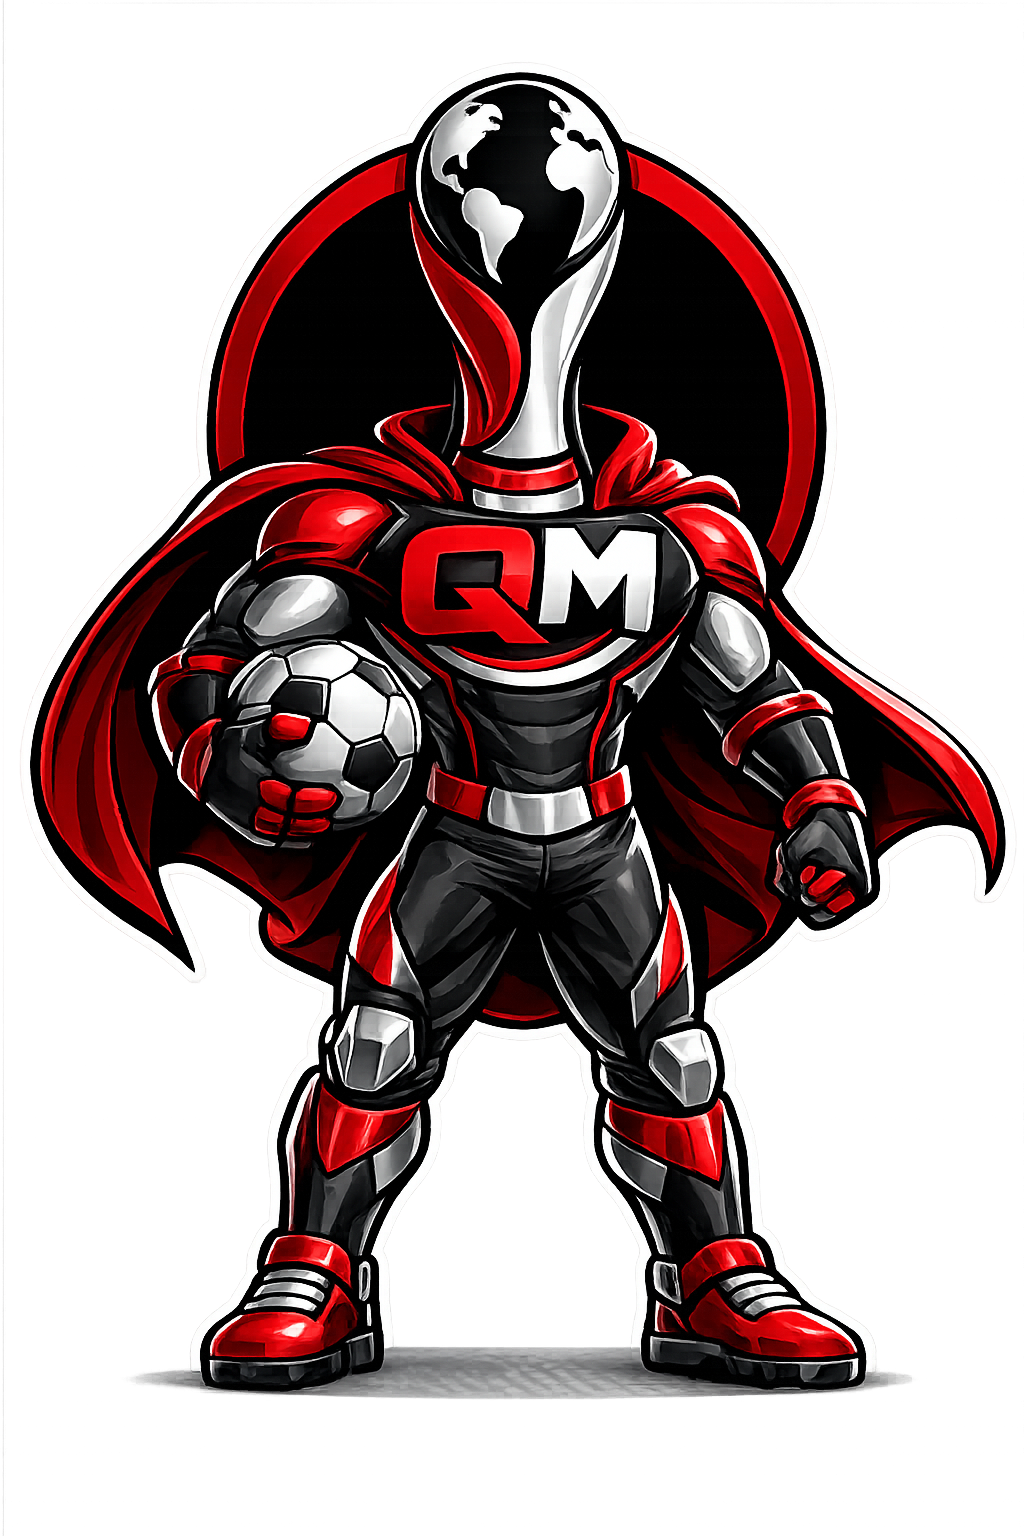
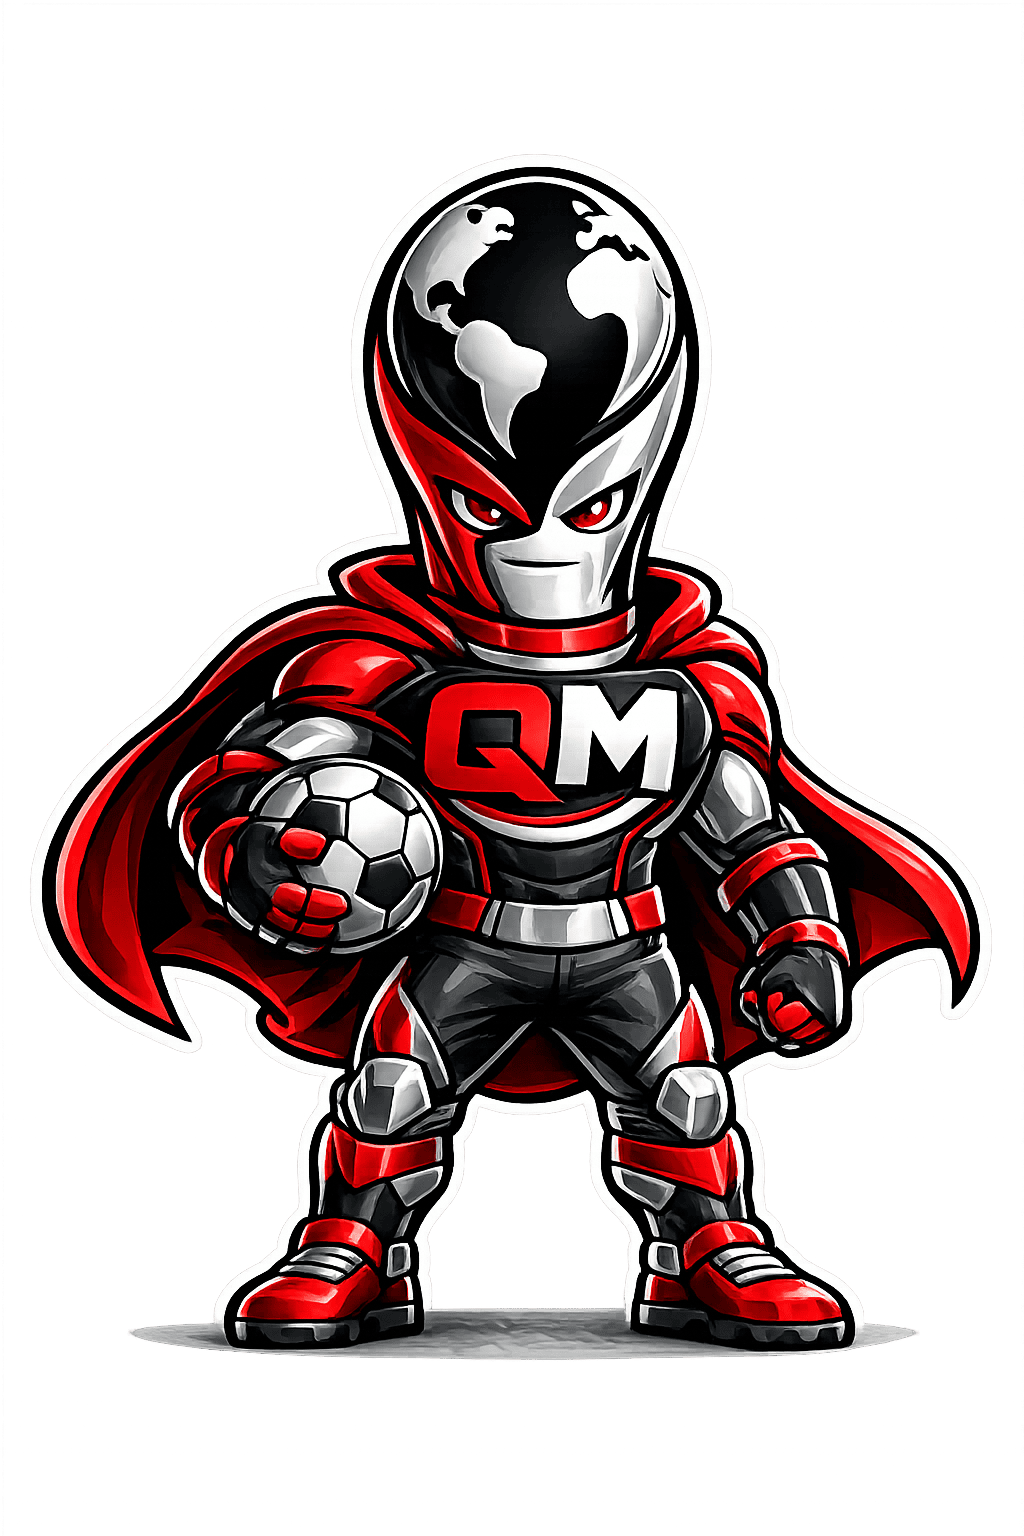
feat(tutorial): mascota mas protagonista + asset 10x mas ligero
Sustituye el PNG de 2.4 MB por una version comprimida de 240 KB
(misma imagen, ahorra 90% en repo y deploy).

Ademas le sube el protagonismo en el card:
- Tamano de 36-44px (size-9/11) a 64-80px (size-16/20).
- Pasa de estar pegada al lado del indicador de paso a ser el
  HEROE del top del card, centrada, con el indicador de paso
  debajo y la X de cerrar absolute en la esquina.
- Anade un halo arena suave detras y drop-shadow ligera para que
  destaque sobre el surface del card sin romper la estetica.

Funciona igual en bottom-sheet movil y en card flotante desktop.

diff --git a/components/tutorial/tutorial-card.tsx b/components/tutorial/tutorial-card.tsx
@@ -178,19 +178,20 @@ export function TutorialCard() {
           <div className="mx-auto mb-3 h-1 w-10 rounded-full bg-[var(--color-border-strong)]" />
         ) : null}
 
-        {/* Header: indicador de paso + mascota + botón cerrar. */}
-        <div className="mb-3 flex items-start justify-between gap-3">
-          <div className="flex items-center gap-2">
+        {/* Header: mascota HÉROE arriba al centro, indicador de paso
+            debajo, botón cerrar en esquina superior derecha. */}
+        <div className="relative mb-2">
+          <div className="flex justify-center">
             <TutorialMascot tone={step.fanfare ? "wiggle" : "idle"} />
-            <span className="font-mono text-[0.6rem] uppercase tracking-[0.32em] text-[var(--color-arena)]">
-              Paso {stepIndex + 1} de {totalSteps}
-            </span>
           </div>
+          <p className="mt-2 text-center font-mono text-[0.6rem] uppercase tracking-[0.32em] text-[var(--color-arena)]">
+            Paso {stepIndex + 1} de {totalSteps}
+          </p>
           <button
             type="button"
             onClick={skip}
             aria-label="Saltar tutorial"
-            className="grid size-9 place-items-center rounded-md text-[var(--color-muted-foreground)] transition hover:bg-[var(--color-surface-2)] hover:text-[var(--color-foreground)]"
+            className="absolute right-0 top-0 grid size-9 place-items-center rounded-md text-[var(--color-muted-foreground)] transition hover:bg-[var(--color-surface-2)] hover:text-[var(--color-foreground)]"
           >
             <X className="size-4" />
           </button>

diff --git a/components/tutorial/mascot.tsx b/components/tutorial/mascot.tsx
@@ -19,18 +19,25 @@ export function TutorialMascot({ tone = "idle" }: { tone?: "idle" | "wiggle" }) 
   return (
     <span
       aria-hidden
-      className={`inline-flex shrink-0 size-9 sm:size-11 ${
+      className={`relative inline-flex shrink-0 size-16 sm:size-20 ${
         tone === "wiggle"
           ? "tutorial-mascot-wiggle"
           : "tutorial-mascot-idle"
       }`}
     >
+      {/* Halo arena suave detrás de la mascota para que destaque
+          contra el surface del card. Decoración pura — sin sombra
+          fuerte porque la mascota ya tiene su silueta propia. */}
+      <span
+        aria-hidden
+        className="absolute inset-0 -z-10 rounded-full bg-[var(--color-arena)]/12 blur-md"
+      />
       <Image
         src="/mascota.png"
         alt=""
-        width={44}
-        height={44}
-        className="size-full object-contain"
+        width={96}
+        height={96}
+        className="size-full object-contain drop-shadow-[0_2px_8px_rgba(184,137,90,0.25)]"
         priority
       />
     </span>
